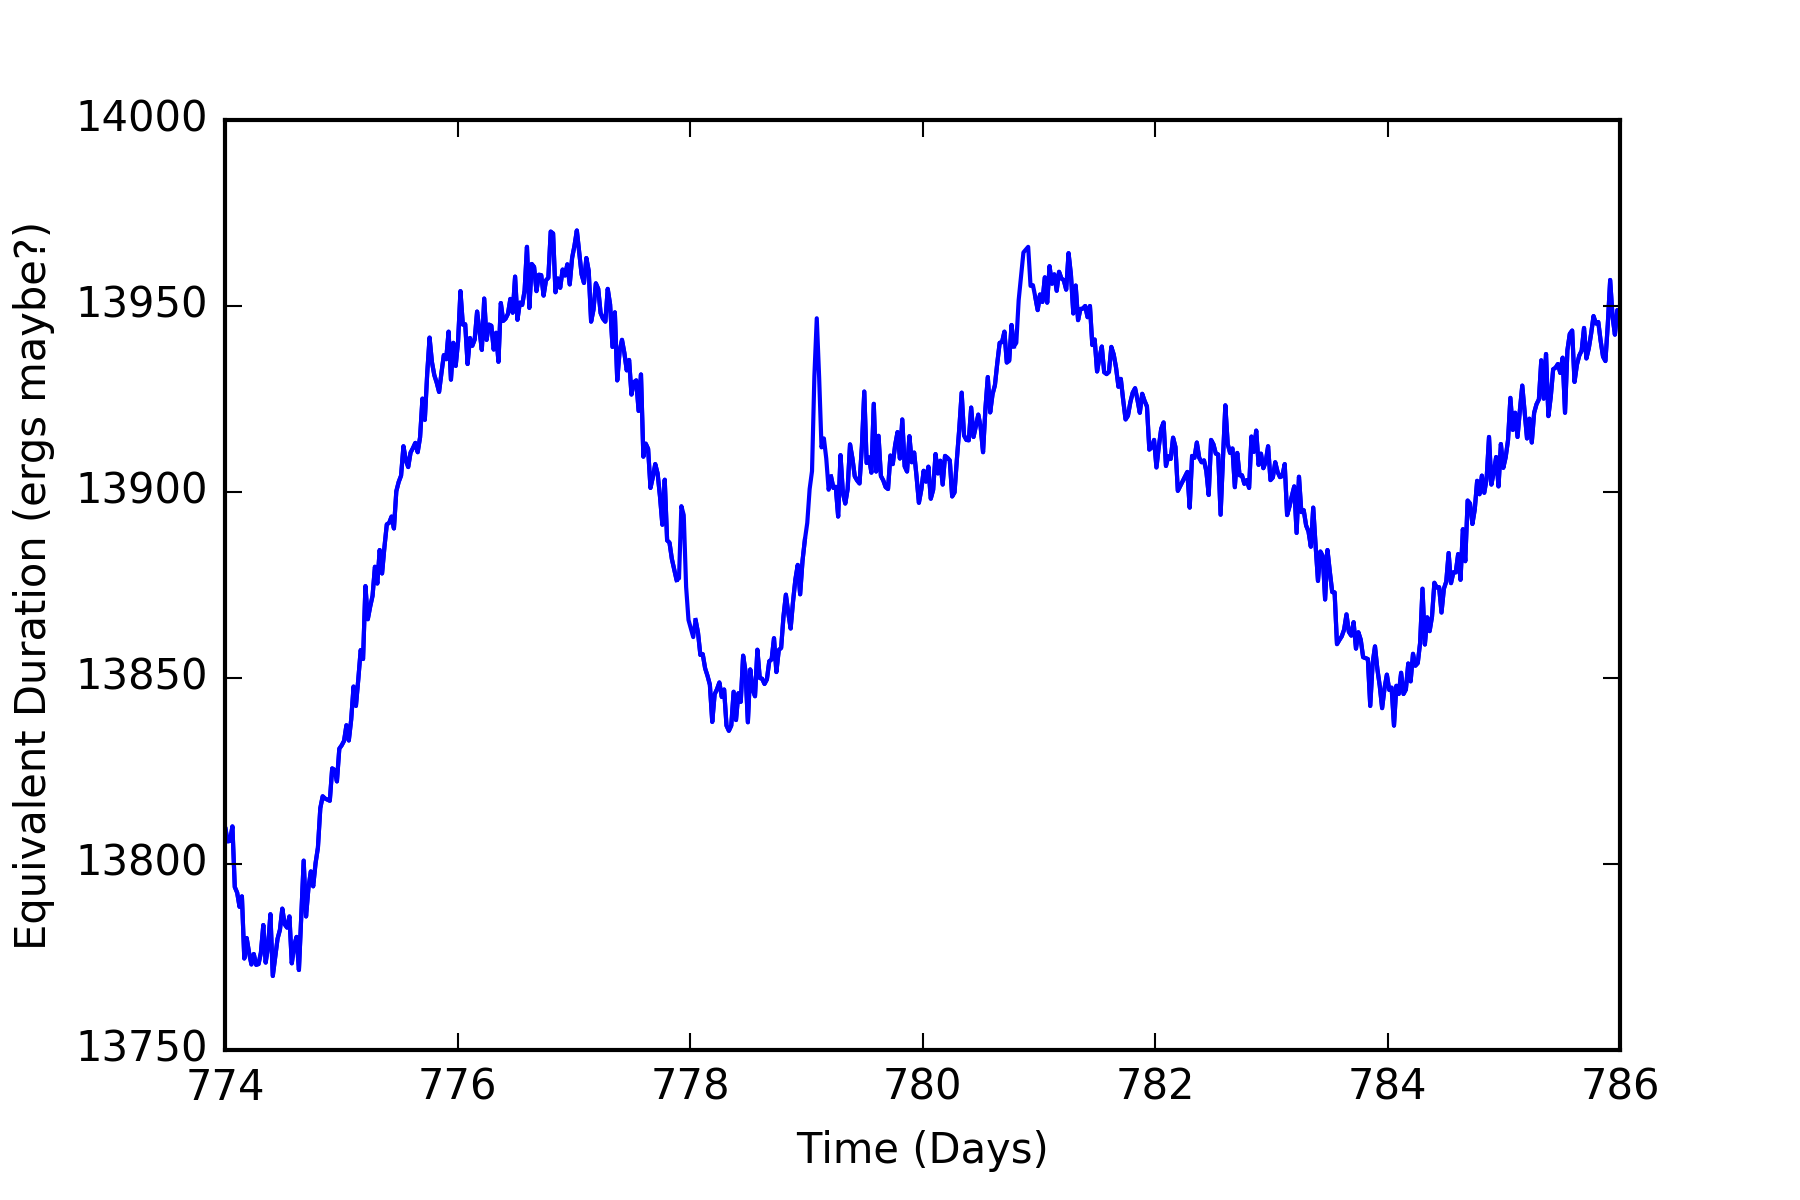
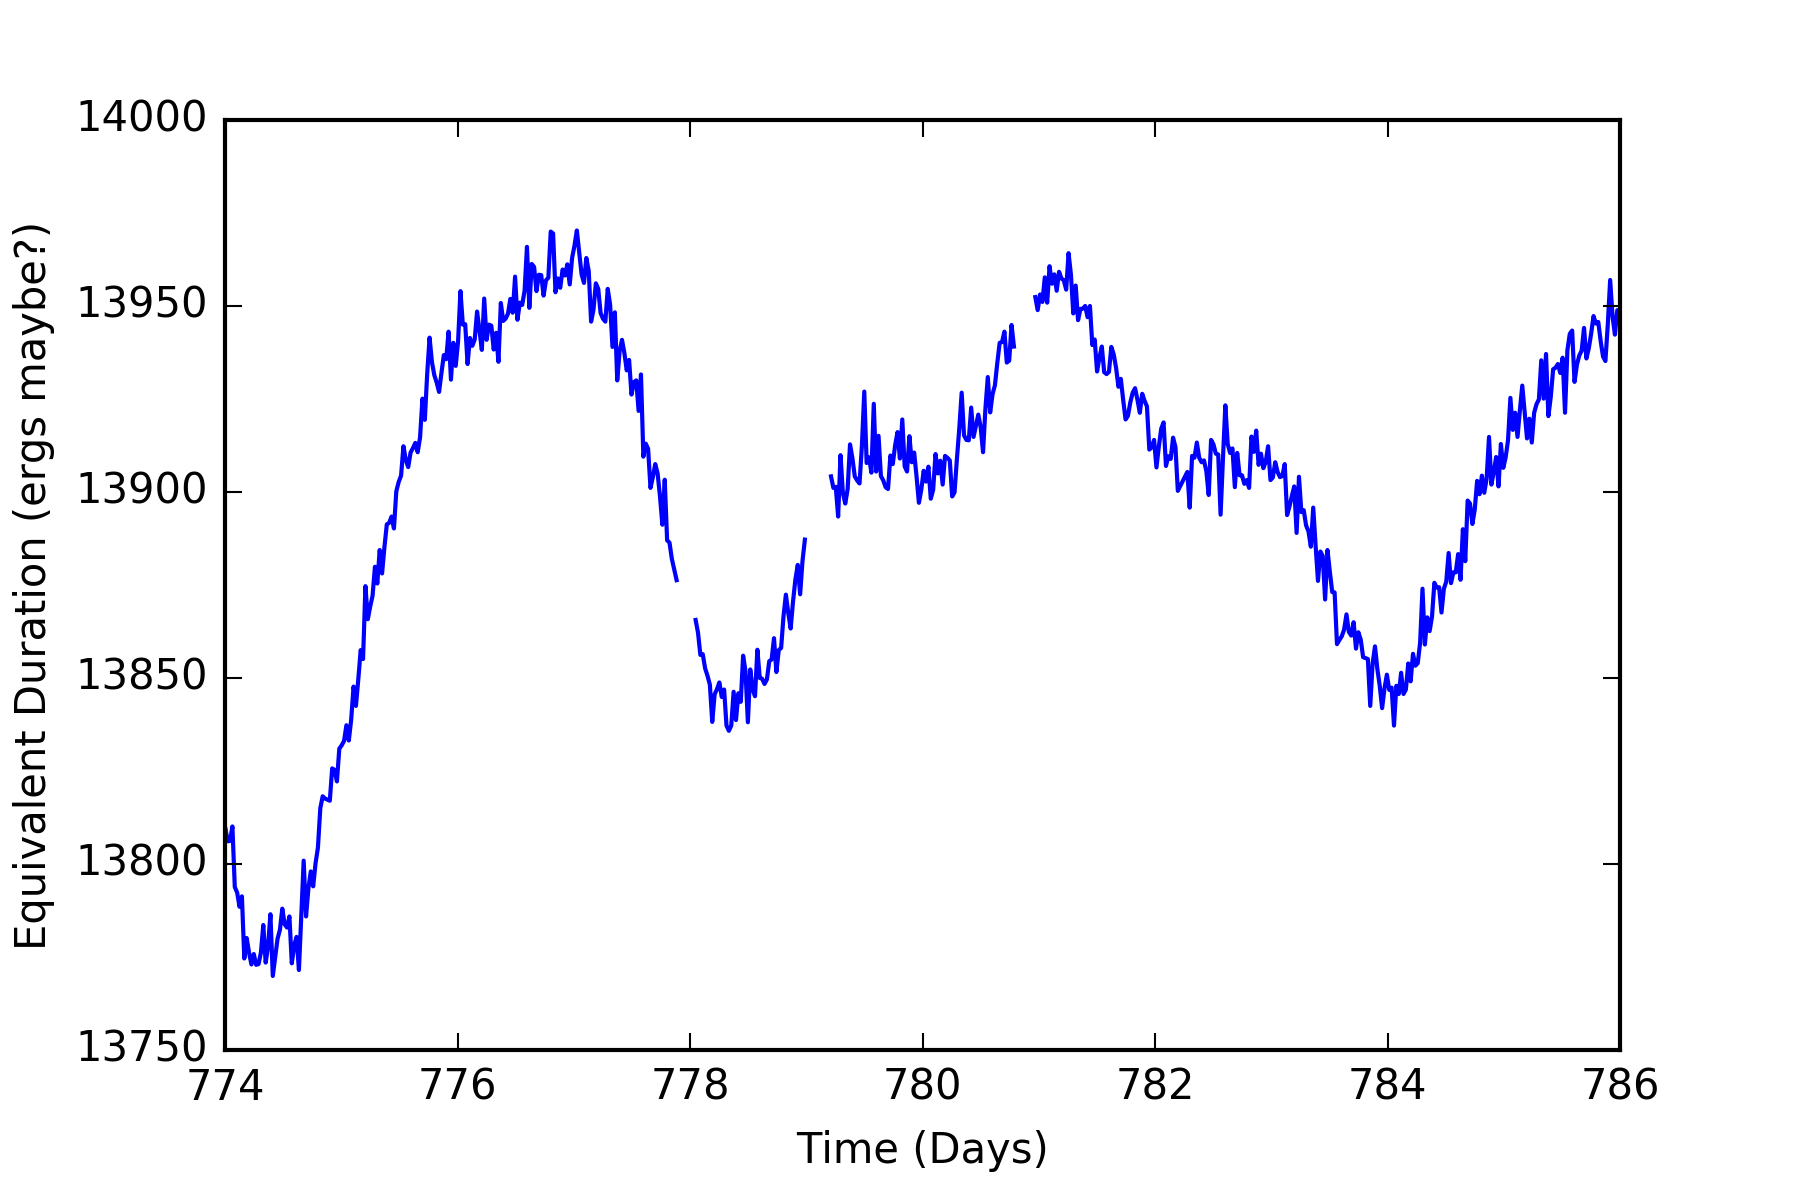
Actually plots without flare
Forgot to edit out a key piece so that the flares arent actually
plotted. Now fixed.

diff --git a/spot_flicker.py b/spot_flicker.py
@@ -1,6 +1,7 @@
 import numpy as np
 import matplotlib
 import matplotlib.pyplot as plt
+import pandas as pd
 
 np.set_printoptions(threshold=np.nan)
 #
@@ -69,7 +70,6 @@ for i in range(0, len(starttime)):
    
    
 plt.figure()
-plt.plot(time, flux, 'b') 
 plt.ylabel('Equivalent Duration (ergs maybe?)')
 plt.xlabel('Time (Days)')
 plt.xlim(774, 786)
@@ -80,8 +80,12 @@ plt.savefig('CT_sans_flares.png', dpi=300)
 plt.show()
    
    
+'''
+This next section of code will attempt to smooth the curve
+via a rolling median window (Here we go...)
+'''
 
-   
+#data_median = pd.rolling_median(flux_sans, window = 3)
    
    
       
